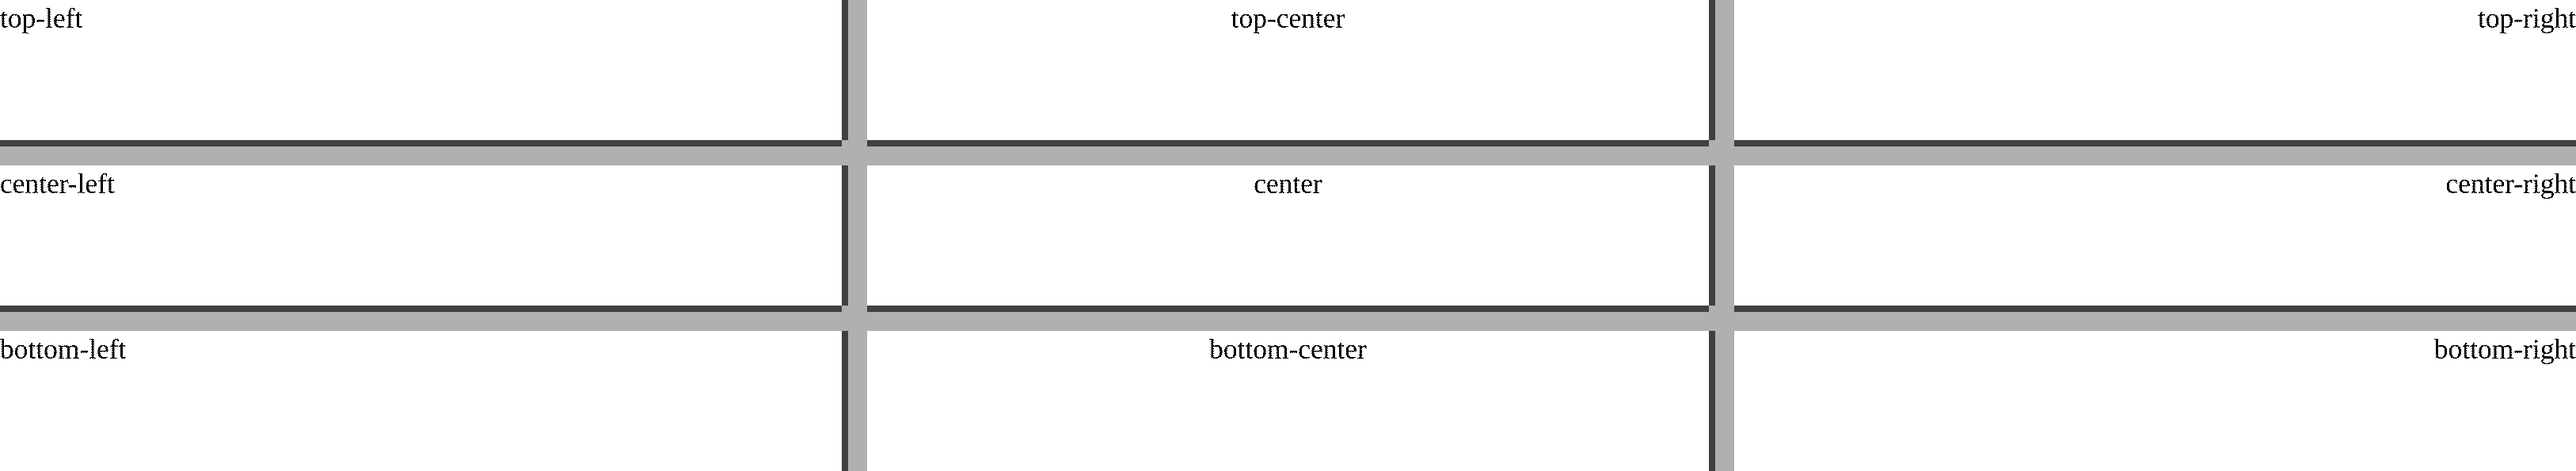
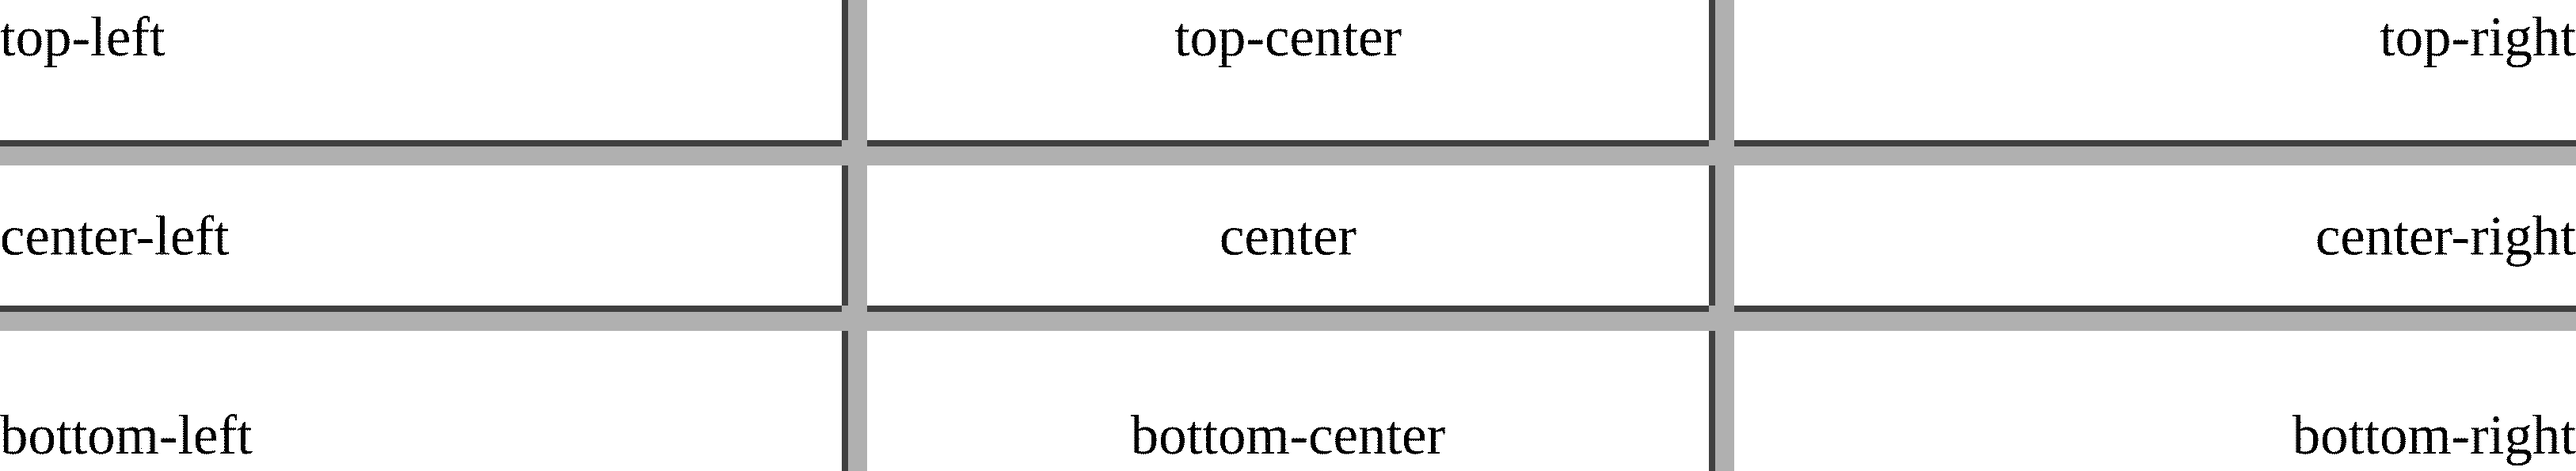
fix: content-mode bottom alignment and related fixes
Stretch the label root in content fit mode so valign works on fixed-length
media, double the alignment preview text size, resolve catalog media aliases
in supports_media, and fix chromiumoxide no_sandbox/CHROME wiring.

diff --git a/crates/lbl-transpile-html/src/transpile.rs b/crates/lbl-transpile-html/src/transpile.rs
@@ -144,12 +144,12 @@ pub struct ViewportPx {
 impl ViewportPx {
     /// CSS that pins the document to a known media viewport so previews and
     /// raster output show the full label width/length, not just the inked area.
-    fn to_css(&self, mode: OutputMode, label_fit: LabelFit) -> String {
+    fn to_css(&self, mode: OutputMode, _label_fit: LabelFit) -> String {
         let mut css = String::new();
         if self.width.is_some() {
             css.push_str("html,body{min-width:100%;width:100%}\n");
         }
-        if label_fit == LabelFit::Fill && self.height.is_some() {
+        if self.height.is_some() {
             css.push_str("html,body{min-height:100%;height:100%}\n");
         }
         if mode == OutputMode::Preview {
@@ -387,11 +387,10 @@ fn label_layout_css(
             valign.justify_content(),
             align.align_items(),
         ));
-    } else if !inset.is_zero() {
-        // Continuous/content mode: inset the shell even without a fill box.
+    } else if !inset.is_zero() || apply_main {
         let container = layout_shell_selector(mode);
         css.push_str(&format!(
-            "{container}{{display:flex;flex-direction:column}}\n"
+            "{container}{{display:flex;flex-direction:column;box-sizing:border-box}}\n"
         ));
     }
 
@@ -401,6 +400,10 @@ fn label_layout_css(
     }
     if apply_main {
         label_rules.push(format!("justify-content:{}", valign.justify_content()));
+        if label_fit == LabelFit::Content {
+            label_rules.push("flex:1 1 auto".into());
+            label_rules.push("min-height:0".into());
+        }
     }
     if !label_rules.is_empty() {
         css.push_str(&format!(".lbl-label{{{}}}\n", label_rules.join(";")));
@@ -973,6 +976,35 @@ mod tests {
         );
         assert!(!out.contains("html,body{height:100%"), "{out}");
         assert!(!out.contains(".lbl-label{height:100%"), "{out}");
+    }
+
+    #[test]
+    fn content_mode_valign_end_stretches_label_root() {
+        let opts = TranspileOptions {
+            label_fit: LabelFit::Content,
+            viewport: Some(ViewportPx {
+                width: Some(400.0),
+                height: Some(200.0),
+            }),
+            label_valign: LabelValign::End,
+            ..Default::default()
+        };
+        let out = transpile(
+            r#"<div class="lbl-label"><span class="lbl-text">bottom</span></div>"#,
+            &opts,
+        );
+        assert!(
+            out.contains("html,body{min-height:100%;height:100%}"),
+            "{out}"
+        );
+        assert!(
+            out.contains("body{display:flex;flex-direction:column;box-sizing:border-box}"),
+            "{out}"
+        );
+        assert!(
+            out.contains("justify-content:flex-end") && out.contains("flex:1 1 auto"),
+            "{out}"
+        );
     }
 
     #[test]

diff --git a/crates/lbl-catalog/src/lib.rs b/crates/lbl-catalog/src/lib.rs
@@ -200,11 +200,21 @@ impl Catalog {
     }
 
     /// Whether a media key is supported by the given printer model.
+    ///
+    /// Accepts any catalog alias for a supported SKU (e.g. `30252` when the
+    /// printer lists canonical key `99010`).
     pub fn supports_media(&self, printer_model: &str, media_key: &str) -> bool {
-        self.match_printer(printer_model).is_some_and(|p| {
-            p.supported_media
-                .iter()
-                .any(|k| k.eq_ignore_ascii_case(media_key))
+        let Some(printer) = self.match_printer(printer_model) else {
+            return false;
+        };
+        printer.supported_media.iter().any(|supported_key| {
+            supported_key.eq_ignore_ascii_case(media_key)
+                || self
+                    .lookup(supported_key)
+                    .zip(self.lookup(media_key))
+                    .is_some_and(|(supported, requested)| {
+                        supported.canonical_key() == requested.canonical_key()
+                    })
         })
     }
 
@@ -295,6 +305,14 @@ mod tests {
         assert!(lw.iter().any(|e| e.matches_key("2191636")));
         assert!(lw.iter().any(|e| e.matches_key("11352")));
         assert!(!lw.iter().any(|e| e.matches_key("2166659")));
+    }
+
+    #[test]
+    fn supports_media_resolves_aliases() {
+        let catalog = Catalog::bundled().unwrap();
+        assert!(catalog.supports_media("LabelWriter 550", "99010"));
+        assert!(catalog.supports_media("LabelWriter 550", "30252"));
+        assert!(!catalog.supports_media("LabelWriter 550", "2166659"));
     }
 
     #[test]

diff --git a/crates/lbl-render/src/chromium.rs b/crates/lbl-render/src/chromium.rs
@@ -67,10 +67,13 @@ impl ChromiumBackend {
             .map_err(RenderError::Io)?;
 
         let (browser, handler) = rt.block_on(async {
-            let config = BrowserConfig::builder()
-                .arg("--no-sandbox")
-                .arg("--disable-gpu")
-                .arg("--hide-scrollbars")
+            // chromiumoxide `.arg()` expects bare flag names (e.g. `disable-gpu`),
+            // not `--`-prefixed strings; use `.no_sandbox()` for Docker/root.
+            let mut builder = BrowserConfig::builder().no_sandbox().arg("disable-gpu");
+            if let Ok(chrome) = std::env::var("CHROME") {
+                builder = builder.chrome_executable(chrome);
+            }
+            let config = builder
                 .user_data_dir(profile_dir.path())
                 .build()
                 .map_err(RenderError::Backend)?;
